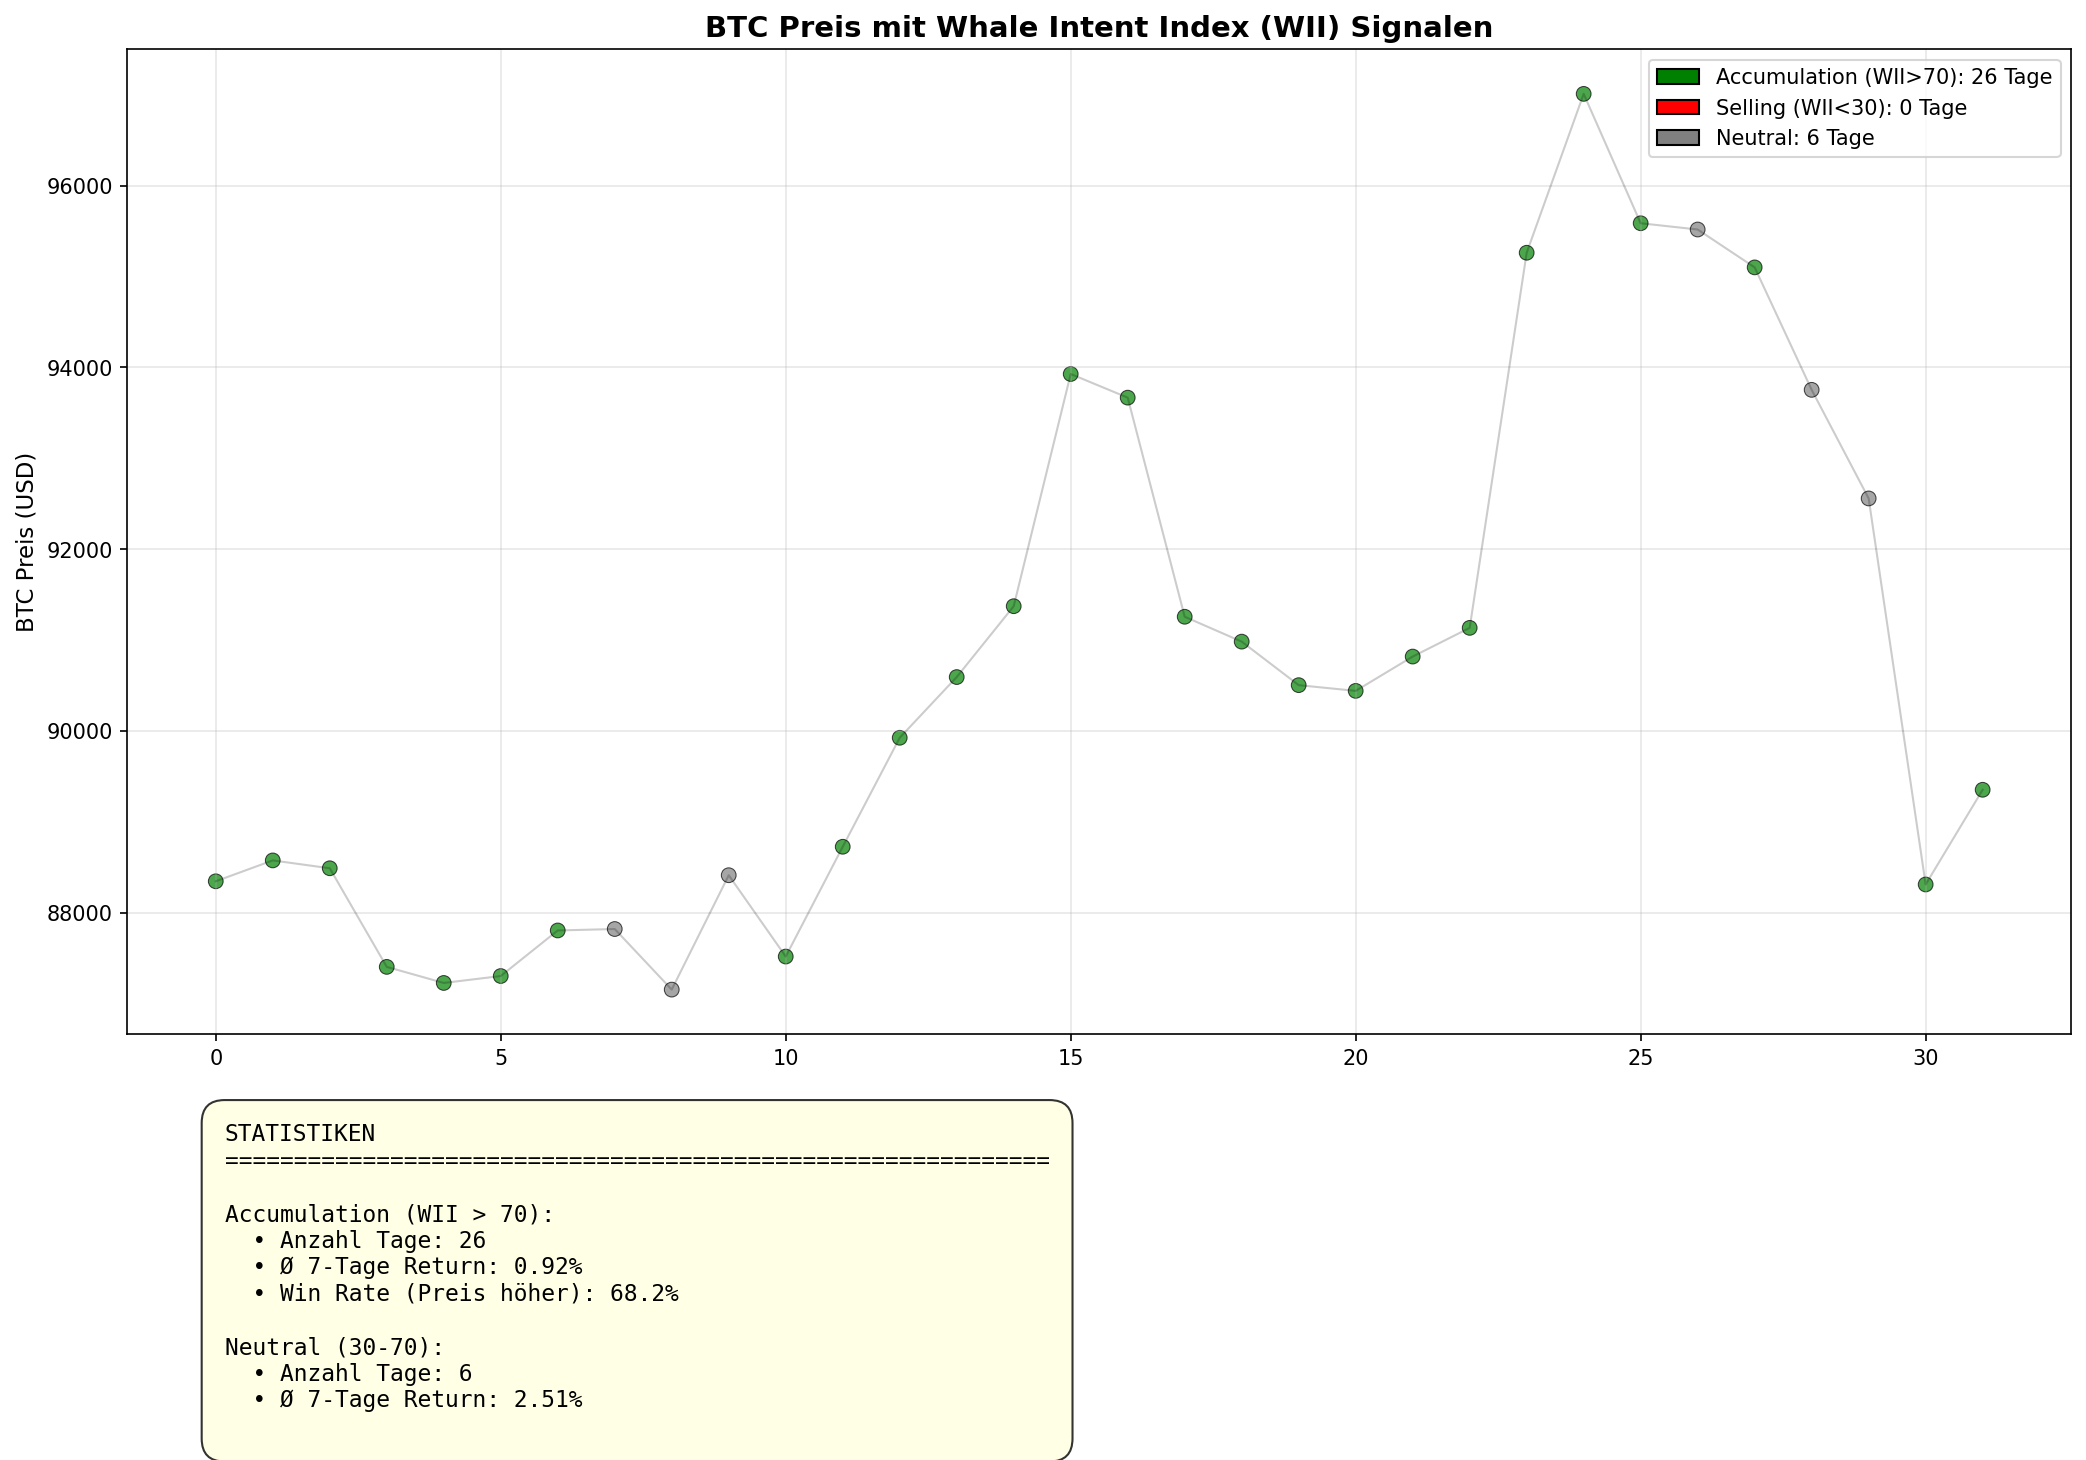
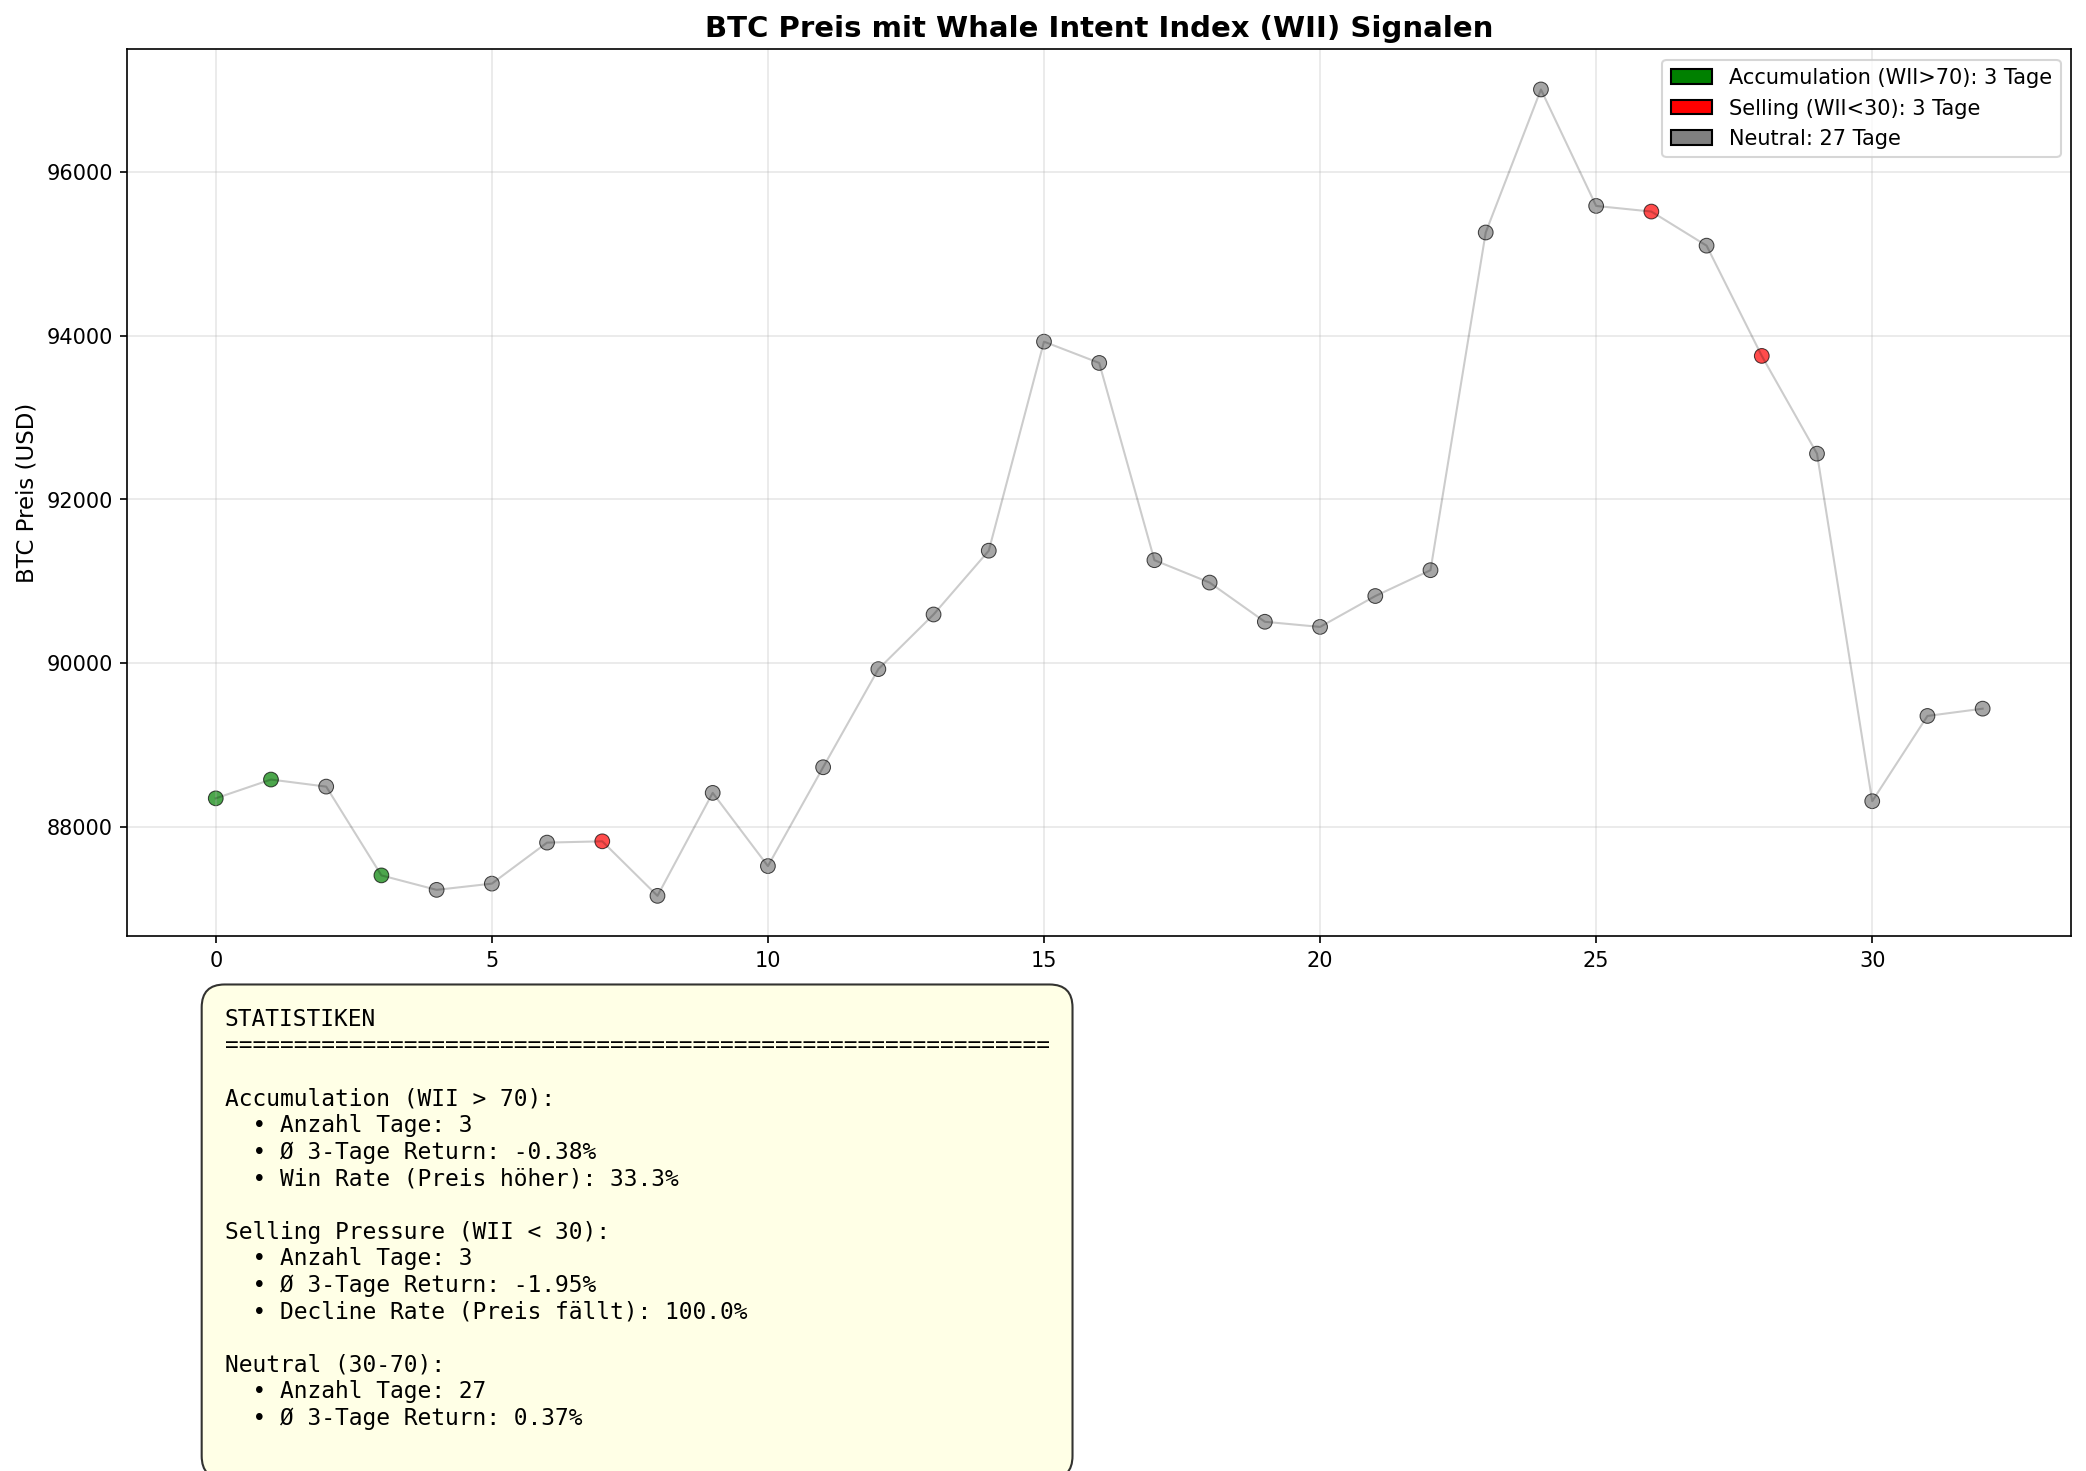
improve wii validation

diff --git a/analysis/wii_validation.py b/analysis/wii_validation.py
@@ -11,16 +11,14 @@ Analysiert:
 Run: python analysis/wii_validation.py
 """
 
-import asyncio
 import sys
 import os
 import pandas as pd
 import numpy as np
+import json
 
 # Füge Parent-Verzeichnis zum Path hinzu
 sys.path.append(os.path.dirname(os.path.dirname(os.path.abspath(__file__))))
-
-from wai_service import WAIService
 
 try:
     import matplotlib.pyplot as plt
@@ -30,7 +28,21 @@ except ImportError:
     print("⚠  matplotlib nicht installiert. Nur Text-Output.")
 
 
-async def analyze_wii_validation(service: WAIService):
+def load_wai_history():
+    """Lädt die lokalen WAI-History-Daten"""
+    data_path = os.path.join(os.path.dirname(os.path.dirname(os.path.abspath(__file__))), 'data', 'wai_history.json')
+    
+    with open(data_path, 'r') as f:
+        json_data = json.load(f)
+    
+    df = pd.DataFrame(json_data['data'])
+    df['date'] = pd.to_datetime(df['date'])
+    df = df.sort_values('date')
+    
+    return df
+
+
+def analyze_wii_validation():
     """
     Validiert: Ist WII Signal wirklich vorhersagbar?
     """
@@ -38,28 +50,15 @@ async def analyze_wii_validation(service: WAIService):
     print("WII VALIDIERUNG - Folgt höherer BTC-Preis auf Accumulation?")
     print("="*80)
     
-    # Daten laden
-    df = await service.fetch_daily_metrics()
-    df = df.sort_values('date')
-    
-    # WAI und WII berechnen
-    df_with_wai = service.calculate_wai(df)
-    df_with_wii = service.calculate_wii(df)
-    
-    # Merge
-    df_analysis = pd.DataFrame()
-    df_analysis['date'] = df['date']
-    df_analysis['wai'] = df_with_wai['wai']
-    df_analysis['wii'] = df_with_wii['wii']
-    df_analysis['wii_signal'] = df_with_wii['wii_signal']
-    df_analysis['btc_close'] = df['btc_close']
-    df_analysis['btc_return_1d'] = df['btc_return_1d']
+    # Daten aus lokaler JSON laden
+    df_analysis = load_wai_history()
     
     # Reset Index für einfacher Zugriff
     df_analysis = df_analysis.reset_index(drop=True)
-    df_analysis = df_analysis.dropna()
+    df_analysis = df_analysis.dropna(subset=['wii', 'btc_close'])
     
-    print(f"\nDatensatz: {len(df_analysis)} Tage\n")
+    print(f"\nDatensatz: {len(df_analysis)} Tage")
+    print(f"Zeitraum: {df_analysis['date'].min().date()} bis {df_analysis['date'].max().date()}\n")
     
     # === ANALYSE: Accumulation ===
     print("="*80)
@@ -78,20 +77,20 @@ async def analyze_wii_validation(service: WAIService):
         # Durchschnittliche Returns nach Accumulation
         future_returns = []
         for idx in accumulation_indices:
-            if idx + 7 < len(df_analysis):
-                # Returns für die nächsten 7 Tage
-                future_prices = df_analysis.iloc[idx+1:idx+8]['btc_close'].values
+            if idx + 3 < len(df_analysis):
+                # Returns für die nächsten 3 Tage
+                future_prices = df_analysis.iloc[idx+1:idx+4]['btc_close'].values
                 if len(future_prices) > 0:
                     avg_future_price = np.mean(future_prices)
                     current_price = df_analysis.iloc[idx]['btc_close']
-                    return_7d = (avg_future_price - current_price) / current_price
-                    future_returns.append(return_7d)
+                    return_3d = (avg_future_price - current_price) / current_price
+                    future_returns.append(return_3d)
         
         if future_returns:
             avg_return = np.mean(future_returns)
             win_rate = sum(1 for r in future_returns if r > 0) / len(future_returns)
             
-            print(f"Ø 7-Tage Return nach Accumulation: {avg_return*100:.2f}%")
+            print(f"Ø 3-Tage Return nach Accumulation: {avg_return*100:.2f}%")
             print(f"Win Rate (Preis höher): {win_rate*100:.1f}%")
             
             if avg_return > 0:
@@ -112,19 +111,19 @@ async def analyze_wii_validation(service: WAIService):
         # Durchschnittliche Returns nach Selling Pressure
         future_returns_sell = []
         for idx in selling_indices:
-            if idx + 7 < len(df_analysis):
-                future_prices = df_analysis.iloc[idx+1:idx+8]['btc_close'].values
+            if idx + 3 < len(df_analysis):
+                future_prices = df_analysis.iloc[idx+1:idx+4]['btc_close'].values
                 if len(future_prices) > 0:
                     avg_future_price = np.mean(future_prices)
                     current_price = df_analysis.iloc[idx]['btc_close']
-                    return_7d = (avg_future_price - current_price) / current_price
-                    future_returns_sell.append(return_7d)
+                    return_3d = (avg_future_price - current_price) / current_price
+                    future_returns_sell.append(return_3d)
         
         if future_returns_sell:
             avg_return = np.mean(future_returns_sell)
             win_rate = sum(1 for r in future_returns_sell if r < 0) / len(future_returns_sell)
             
-            print(f"Ø 7-Tage Return nach Selling Pressure: {avg_return*100:.2f}%")
+            print(f"Ø 3-Tage Return nach Selling Pressure: {avg_return*100:.2f}%")
             print(f"Decline Rate (Preis fällt): {win_rate*100:.1f}%")
             
             if avg_return < 0:
@@ -144,17 +143,17 @@ async def analyze_wii_validation(service: WAIService):
         
         future_returns_neutral = []
         for idx in neutral_indices:
-            if idx + 7 < len(df_analysis):
-                future_prices = df_analysis.iloc[idx+1:idx+8]['btc_close'].values
+            if idx + 3 < len(df_analysis):
+                future_prices = df_analysis.iloc[idx+1:idx+4]['btc_close'].values
                 if len(future_prices) > 0:
                     avg_future_price = np.mean(future_prices)
                     current_price = df_analysis.iloc[idx]['btc_close']
-                    return_7d = (avg_future_price - current_price) / current_price
-                    future_returns_neutral.append(return_7d)
+                    return_3d = (avg_future_price - current_price) / current_price
+                    future_returns_neutral.append(return_3d)
         
         if future_returns_neutral:
             avg_return = np.mean(future_returns_neutral)
-            print(f"Ø 7-Tage Return (Neutral): {avg_return*100:.2f}%")
+            print(f"Ø 3-Tage Return (Neutral): {avg_return*100:.2f}%")
     
     # === GRAFISCHE DARSTELLUNG ===
     if MATPLOTLIB_AVAILABLE:
@@ -190,19 +189,19 @@ async def analyze_wii_validation(service: WAIService):
         if future_returns:
             stats_text += f"Accumulation (WII > 70):\n"
             stats_text += f"  • Anzahl Tage: {len(accumulation_indices)}\n"
-            stats_text += f"  • Ø 7-Tage Return: {np.mean(future_returns)*100:.2f}%\n"
+            stats_text += f"  • Ø 3-Tage Return: {np.mean(future_returns)*100:.2f}%\n"
             stats_text += f"  • Win Rate (Preis höher): {sum(1 for r in future_returns if r > 0)/len(future_returns)*100:.1f}%\n\n"
         
         if future_returns_sell:
             stats_text += f"Selling Pressure (WII < 30):\n"
             stats_text += f"  • Anzahl Tage: {len(selling_indices)}\n"
-            stats_text += f"  • Ø 7-Tage Return: {np.mean(future_returns_sell)*100:.2f}%\n"
+            stats_text += f"  • Ø 3-Tage Return: {np.mean(future_returns_sell)*100:.2f}%\n"
             stats_text += f"  • Decline Rate (Preis fällt): {sum(1 for r in future_returns_sell if r < 0)/len(future_returns_sell)*100:.1f}%\n\n"
         
         if future_returns_neutral:
             stats_text += f"Neutral (30-70):\n"
             stats_text += f"  • Anzahl Tage: {len(neutral_indices)}\n"
-            stats_text += f"  • Ø 7-Tage Return: {np.mean(future_returns_neutral)*100:.2f}%\n"
+            stats_text += f"  • Ø 3-Tage Return: {np.mean(future_returns_neutral)*100:.2f}%\n"
         
         ax2.text(0.05, 0.5, stats_text, fontsize=11, verticalalignment='center',
                 fontfamily='monospace', bbox=dict(boxstyle='round', facecolor='lightyellow', alpha=0.8, pad=1))
@@ -212,19 +211,17 @@ async def analyze_wii_validation(service: WAIService):
         print(f"\n✓ Grafik gespeichert: analysis/wii_validation.png")
 
 
-async def main():
+def main():
     """Hauptfunktion"""
     print("\n" + "="*80)
     print("WII VALIDIERUNG")
     print("="*80)
     print("\nFrage: Folgt höherer BTC-Preis auf Whale-Accumulation (WII > 70)?")
-    print("Methode: Vergleiche 7-Tage-Returns nach WII-Signalen")
+    print("Methode: Vergleiche 3-Tage-Returns nach WII-Signalen")
     print("\n" + "="*80)
     
-    service = WAIService()
-    
     try:
-        await analyze_wii_validation(service)
+        analyze_wii_validation()
         
         print("\n" + "="*80)
         print("ANALYSE ABGESCHLOSSEN ✓")
@@ -237,4 +234,4 @@ async def main():
 
 
 if __name__ == "__main__":
-    asyncio.run(main())
+    main()
